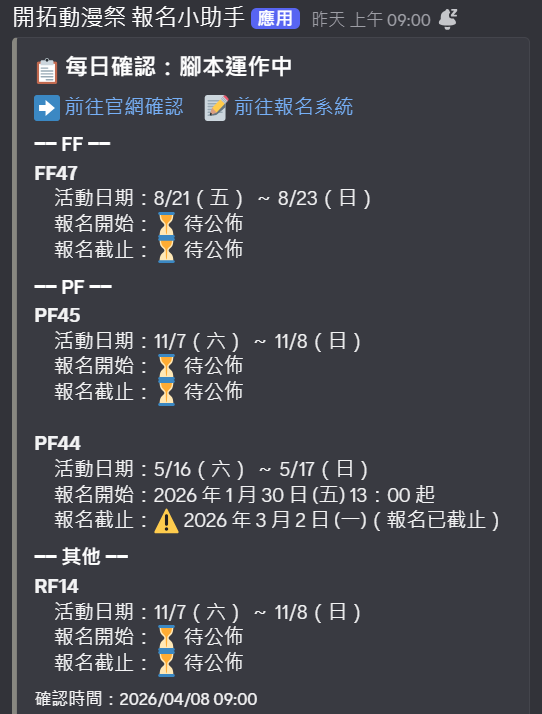
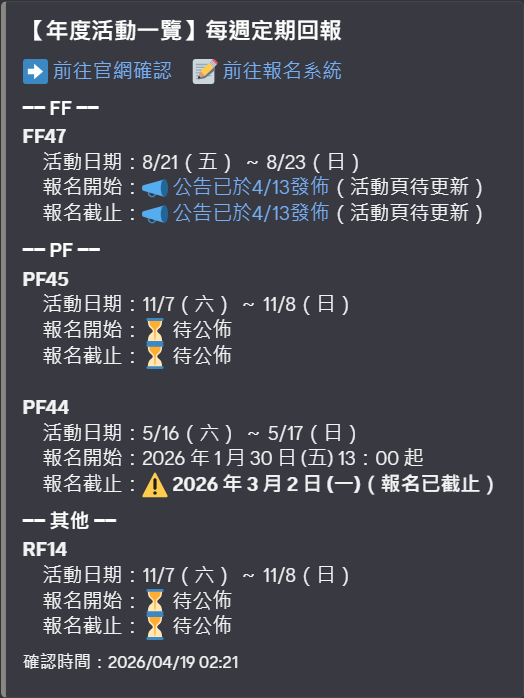
refactor: 心跳改為週報、新增公告來源交叉比對、整理通知標題與 README
- monitor.py
  - 心跳通知從每日改為每週一發送
  - 新增 events_with_announcement 狀態追蹤：公告頁偵測到新公告時自動記錄場次代碼、日期、URL
  - 週報中對「活動頁待公佈但已有社團公告」的場次，顯示可點擊的「公告已於M/D發佈」連結
  - 通知標題移除「開拓動漫祭 ·」前綴，改用【年度活動一覽】/【社團相關公告】來源標示
  - 公告日期格式統一為 YYYY/MM/DD

- README.md
  - 新增「快速開始」區塊
  - 通知說明表格新增「來源頁面」欄，調整欄位文字與排序
  - 「活動頁」改為「活動一覽頁」，加入官網頁面超連結
  - 更新 Demo 截圖與說明文字

diff --git a/monitor.py b/monitor.py
@@ -158,7 +158,7 @@ def send_discord(event_name, reg_start, reg_end="待公佈"):
         "avatar_url": "https://www.f-2.com.tw/wp-content/uploads/2025/03/FF_Logo.png",
         "embeds": [
             {
-                "title": f"🎉 開拓動漫祭 · {event_name} 報名時間公告！",
+                "title": "【年度活動一覽】報名時間有更新！",
                 "description": (
                     f"**{event_name}** 的社團報名資訊已更新，快去確認！\n\n"
                     f"📅 **報名開始**：{reg_start}\n"
@@ -220,10 +220,10 @@ def send_discord_announcement(title: str, date: str, url: str):
         "avatar_url": "https://www.f-2.com.tw/wp-content/uploads/2025/03/FF_Logo.png",
         "embeds": [
             {
-                "title": "📣 開拓動漫祭 · 社團公告",
+                "title": "【社團相關公告】",
                 "description": (
                     f"**{title}**\n\n"
-                    f"📅 **公告日期**：{date}\n\n"
+                    f"📅 **公告日期**：{date.replace('-', '/')}\n\n"
                     f"[➡ 查看公告]({url})"
                 ),
                 "color": 0xE67E22,
@@ -238,10 +238,12 @@ def send_discord_announcement(title: str, date: str, url: str):
         print(f"[錯誤] 公告通知失敗：{resp.status_code} {resp.text}")
 
 
-def send_discord_heartbeat(checked_events):
-    """每天執行一次，發送「確認運作中」的靜音通知"""
+def send_discord_heartbeat(checked_events, events_with_announcement=None):
+    """每週執行一次，發送「確認運作中」的靜音通知"""
     if not DISCORD_WEBHOOK_URL:
         return
+    if events_with_announcement is None:
+        events_with_announcement = {}
 
     now_str = datetime.now().strftime("%Y/%m/%d %H:%M")
 
@@ -268,8 +270,23 @@ def send_discord_heartbeat(checked_events):
         ended_tag = " ~~已結束~~" if info.get("ended") else ""
 
         if info["status"] == "pending":
-            reg_start = "⏳ 待公佈"
-            reg_end_display = "⏳ 待公佈"
+            if event in events_with_announcement:
+                ann_info = events_with_announcement[event]
+                ann_date = ann_info.get("date", "") if isinstance(ann_info, dict) else ann_info
+                ann_url = ann_info.get("url", "") if isinstance(ann_info, dict) else ""
+                try:
+                    dt = datetime.strptime(ann_date, "%Y-%m-%d")
+                    date_display = f"{dt.month}/{dt.day}"
+                except (ValueError, TypeError):
+                    date_display = ann_date
+                if ann_url:
+                    reg_start = f"[📣 公告已於{date_display}發佈]({ann_url})（活動頁待更新）"
+                else:
+                    reg_start = f"📣 公告已於{date_display}發佈（活動頁待更新）"
+                reg_end_display = reg_start
+            else:
+                reg_start = "⏳ 待公佈"
+                reg_end_display = "⏳ 待公佈"
         else:
             reg_start = info.get("reg_start", "—")
             reg_end_raw = info.get("reg_end", "—")
@@ -303,7 +320,7 @@ def send_discord_heartbeat(checked_events):
         "flags": 4096,
         "embeds": [
             {
-                "title": "📋 開拓動漫祭 · 每日確認",
+                "title": "【年度活動一覽】每週定期回報",
                 "description": (
                     f"[➡ 前往官網確認]({TARGET_URL})　"
                     f"[📝 前往報名系統](https://circle.f-2.com.tw/login)"
@@ -331,8 +348,10 @@ def main():
 
     print(f"解析結果：{current}")
 
-    # 每日心跳通知（可以把這行註解掉，如果不想每天收到確認訊息）
-    send_discord_heartbeat(current)
+    # 週報心跳通知（每週一發送，確認腳本仍在運作）
+    events_with_ann = previous.get("events_with_announcement", {})
+    if datetime.today().weekday() == 0:  # 0 = 週一
+        send_discord_heartbeat(current, events_with_announcement=events_with_ann)
 
     for event, info in current.items():
         prev = previous.get(event, {})
@@ -352,12 +371,18 @@ def main():
         ann_resp.encoding = "utf-8"
         new_anns = fetch_announcements(ann_resp.text)
         seen_urls = previous.get("seen_announcement_urls", [])
+        events_with_ann = previous.get("events_with_announcement", {})
         for ann in new_anns:
             if ann["url"] not in seen_urls:
                 print(f"[新公告] {ann['title']}（{ann['date']}）")
                 send_discord_announcement(ann["title"], ann["date"], ann["url"])
                 seen_urls.append(ann["url"])
+                # 嘗試從標題提取場次代碼（如 FF47），記錄至 state
+                m = re.search(r'\b([A-Z]{2,3}\d+)\b', ann["title"])
+                if m:
+                    events_with_ann[m.group(1)] = {"date": ann["date"], "url": ann["url"]}
         previous["seen_announcement_urls"] = seen_urls
+        previous["events_with_announcement"] = events_with_ann
     except Exception as e:
         print(f"[錯誤] 無法抓取公告頁：{e}")
 

diff --git a/README.md b/README.md
@@ -2,26 +2,39 @@
 
 同時監控兩個官方來源，第一時間通知社團報名資訊：
 
-- 📋 **活動頁**：偵測各場次報名時間從「待公佈」變成有實際日期
-- 📣 **社團公告頁**：偵測新公告（如「社團報名開始！」）出現
+- 📋 **[活動一覽頁](https://www.f-2.com.tw/%e6%b4%bb%e5%8b%95%e5%a0%b4%e5%9c%b0%e4%ba%a4%e9%80%9a%e8%b3%87%e8%a8%8a/)**：偵測各場次報名時間從「待公佈」變成有實際日期
+- 📣 **[社團公告頁](https://www.f-2.com.tw/%e7%a4%be%e5%9c%98%e7%9b%b8%e9%97%9c%e5%85%ac%e5%91%8a/)**：偵測新公告（如「社團報名開始！」）出現
+
+---
+
+## 快速開始
+
+```bash
+pip install -r requirements.txt
+set FF_DISCORD_WEBHOOK=https://discord.com/api/webhooks/你的Webhook
+python monitor.py
+```
+
+成功後到工作排程器設定每天 9:00 執行 `run.bat`，即可完成設定。  
+詳細步驟與 Discord Webhook 取得方式見下方說明。
 
 ---
 
 ## Demo
 
-每天執行後，Discord 頻道會依序收到以下訊息：
+每次執行後，Discord 頻道會依序收到以下訊息：
 
-**1. 每日靜音確認** — 列出所有場次目前狀態，確認腳本正常運作
+**1. 每週靜音確認**（週一）— 列出所有場次目前狀態，確認腳本正常運作
 
 <img src="docs/screenshots/01_定期通知.png" width="360" />
 
 **2. 報名公告通知** — 活動頁偵測到「待公佈」變成有實際日期時發送（非靜音）
 
-<img src="docs/screenshots/02_報名更新通知.png" width="360" />
+<img src="docs/screenshots/02_報名更新通知.png" width="313" />
 
 **3. 社團公告通知** — 社團相關公告頁出現「社團報名開始！」新公告時發送（非靜音）
 
-<img src="docs/screenshots/03_社團公告更新.png" width="360" />
+<img src="docs/screenshots/03_社團公告更新.png" width="190" />
 
 ---
 
@@ -86,13 +99,12 @@ python monitor.py
 ## 步驟 4：手動測試
 
 ```
-cd 01_FF_PF_Search
 python monitor.py
 ```
 
 成功的話：
 - 終端機顯示解析到的場次資訊
-- Discord 頻道收到「📋 每日確認：腳本運作中」靜音訊息
+- Discord 頻道收到「📋 每週確認：腳本運作中」靜音訊息
 
 ---
 
@@ -111,23 +123,24 @@ python monitor.py
 
 ## 通知說明
 
-| 情況 | Discord 收到 |
-|------|-------------|
-| 活動頁報名時間從「待公佈」變成有日期 | 🎉 大通知（非靜音） |
-| 社團公告頁出現「社團報名開始！」新公告 | 📣 公告通知（非靜音） |
-| 每次腳本執行（每天） | 📋 靜音確認訊息（不發出聲音） |
-| 首次執行偵測到場次 | 靜默記錄，不發通知 |
+| 來源頁面 | 情況 | Discord 收到 |
+|---------|------|-------------|
+| 活動一覽 | 首次執行偵測到場次 | 靜默記錄，不發通知 |
+| 活動一覽 | 每週一腳本執行 | 靜音通知 |
+| 活動一覽 | 活動一覽頁報名時間從「待公佈」變成有日期 | 有聲通知 |
+| 社團公告 | 社團公告頁出現「社團報名開始！」新公告 | 有聲通知 |
 
 ---
 
 ## 進階設定
 
-**不想每天收到確認訊息**
+**不想收到每週確認訊息**
 
-在 `monitor.py` 末尾將以下這行加上 `#` 註解掉：
+在 `monitor.py` 末尾將以下兩行加上 `#` 註解掉：
 
 ```python
-# send_discord_heartbeat(current)
+# if datetime.today().weekday() == 0:
+#     send_discord_heartbeat(current)
 ```
 
 **顯示已結束場次**
